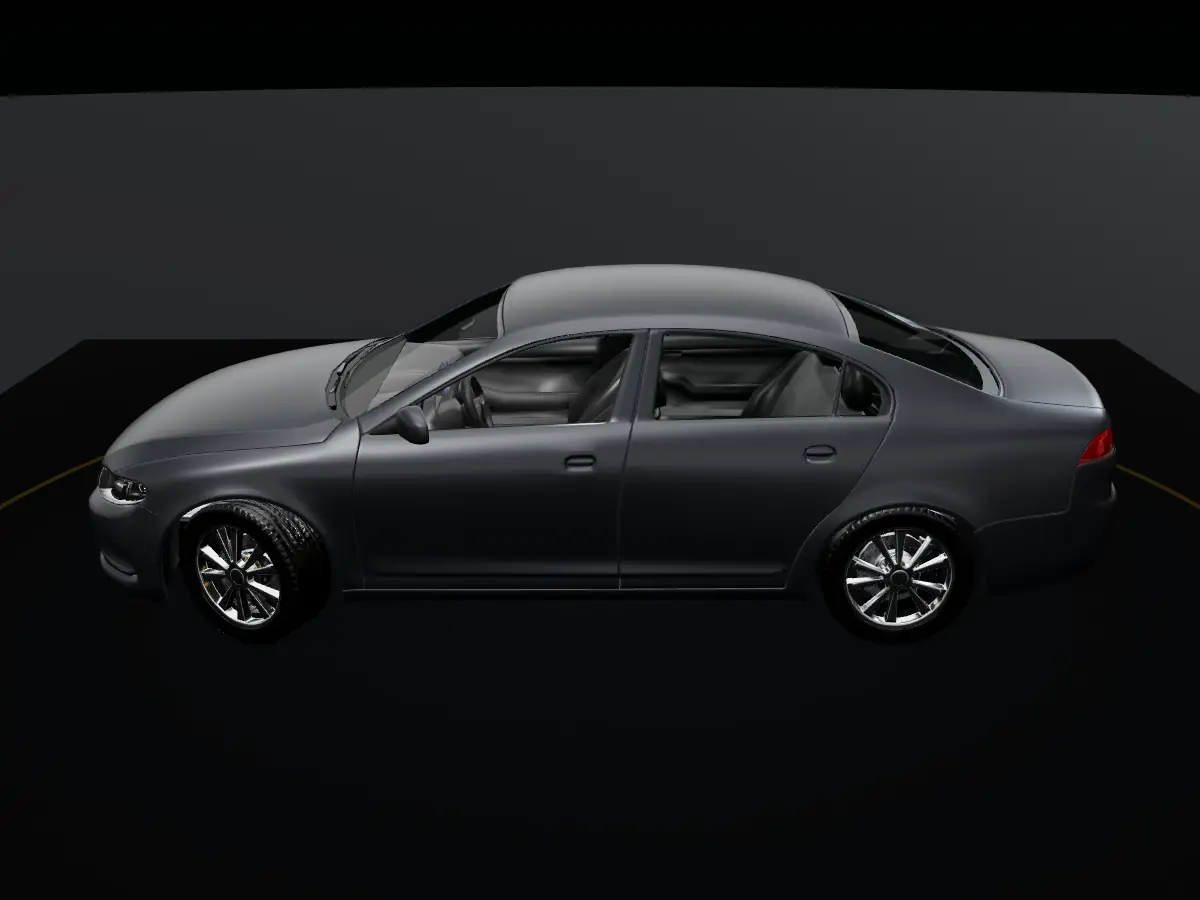
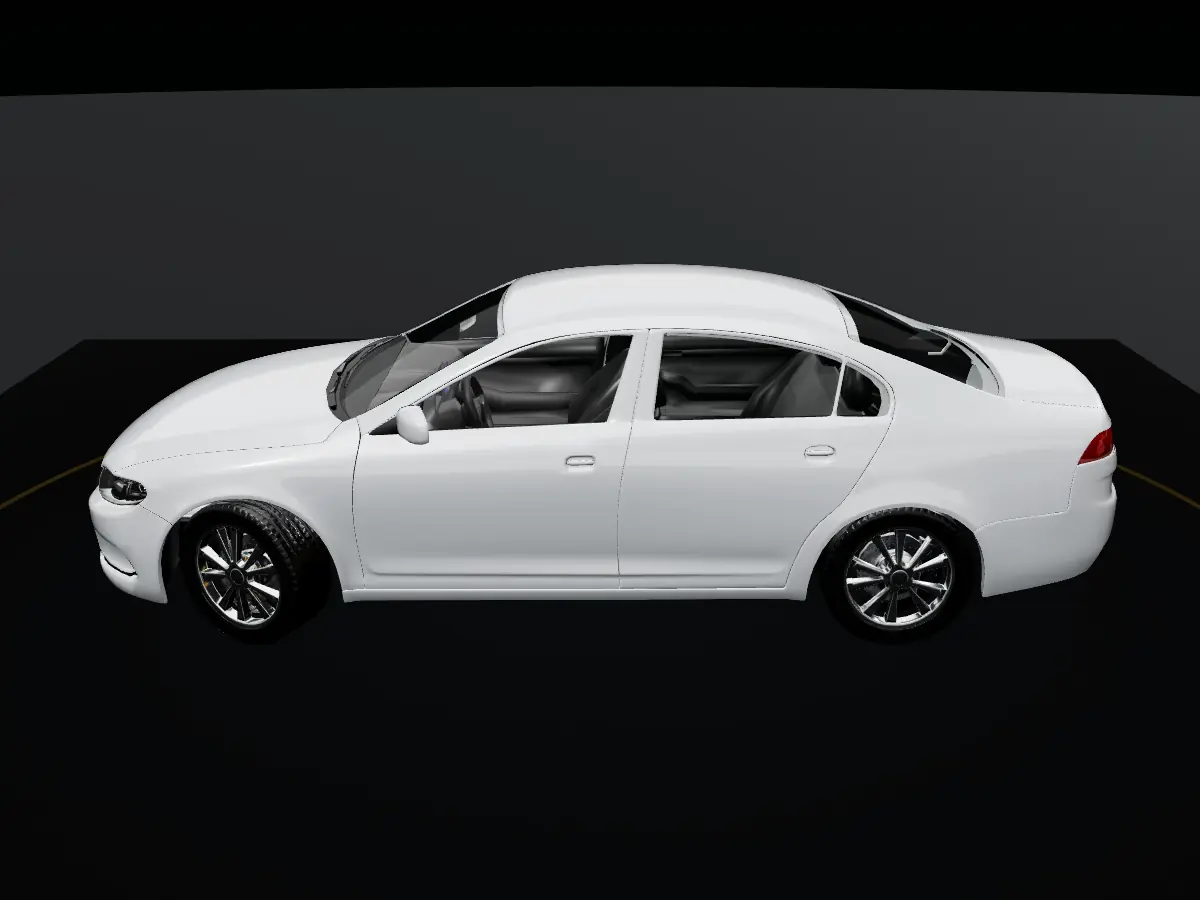
Simulador: vehículo blanco y un solo tono (lámina de seguridad 20 %)
Selector "Sin lámina / Con lámina de seguridad (20 %)", nuevo título y botón
"Quiero mi lámina de seguridad". Se regeneran el póster de carga y las
imágenes de la versión liviana. Se mantiene el crédito CC BY 4.0.

Changed region(s): [[0.0617, 0.28, 0.9558, 0.6844]]

diff --git a/src/components/simulator/SimulatorSection.tsx b/src/components/simulator/SimulatorSection.tsx
@@ -5,7 +5,7 @@ import { useCallback, useEffect, useRef, useState } from 'react';
 import { useReducedMotionPref } from '@/components/ui/useMediaQuery';
 import model from '@/data/model.json';
 import { business } from '@/data/business';
-import { TINT_LEVELS } from '@/data/options';
+import { SECURITY_FILM_TINT } from '@/data/options';
 import { useQuote } from '@/components/quote/QuoteContext';
 import { Reveal, SectionHeading } from '@/components/ui/Reveal';
 import { IconArrowRight, IconChevronLeft, IconChevronRight, IconEye, IconRotate, IconWhatsApp, IconX } from '@/components/ui/Icons';
@@ -124,8 +124,7 @@ export function SimulatorSection() {
       setModelUrl(url);
       setMode('3d');
     });
-    if (capture.layer === 'preview') setState((s) => ({ ...s, tint: '5' }));
-    else setState((s) => ({ ...s, tint: 'none' }));
+    setState((s) => ({ ...s, tint: 'none' }));
   }, [capture]);
 
   // Render solo mientras la sección está visible (no consume batería fuera de pantalla)
@@ -175,13 +174,13 @@ export function SimulatorSection() {
       <div className="container-x relative">
         <SectionHeading
           id="simulador-title"
-          eyebrow="Simulador de polarizado 3D"
+          eyebrow="Simulador 3D"
           title={
             <>
-              Mirá cómo te queda <span className="text-brand">antes de decidir</span>
+              Mirá cómo queda tu vehículo <span className="text-brand">con lámina de seguridad</span>
             </>
           }
-          intro="Girá el auto, elegí el tono de polarizado y mirá desde el asiento del conductor. También podés ver cómo queda un parabrisas cambiado."
+          intro="Girá el vehículo, compará sin lámina y con la lámina de seguridad Security Film (20 %) y mirá desde el asiento del conductor. También podés ver cómo queda un parabrisas cambiado."
         />
 
         <div className="grid gap-6 lg:grid-cols-[1.6fr_1fr]">
@@ -192,7 +191,7 @@ export function SimulatorSection() {
               tabIndex={mode === '3d' ? 0 : -1}
               role={mode === '3d' ? 'group' : undefined}
               aria-roledescription={mode === '3d' ? 'visor 3D' : undefined}
-              aria-label={mode === '3d' ? `Auto en 3D con polarizado ${t.label}. Usá las flechas del teclado para girarlo y + o - para acercar.` : undefined}
+              aria-label={mode === '3d' ? `Vehículo en 3D: ${state.tint === 'none' ? 'sin lámina' : `con lámina de seguridad ${t.label}`}. Usá las flechas del teclado para girarlo y + o - para acercar.` : undefined}
               onKeyDown={onStageKey}
               className="relative aspect-square overflow-hidden rounded-2xl border border-line bg-ink sm:aspect-[16/11]"
             >
@@ -245,10 +244,10 @@ export function SimulatorSection() {
                     setInteracted(true);
                   }}
                   className="absolute inset-0 flex items-end justify-center pb-6"
-                  aria-label="Activar el visor 3D para girar el auto con el dedo"
+                  aria-label="Activar el visor 3D para girar el vehículo con el dedo"
                 >
                   <span className="inline-flex min-h-12 items-center gap-2 rounded-full bg-ink/85 px-5 py-3 font-display text-lg font-bold uppercase tracking-wide text-snow ring-1 ring-brand/70 backdrop-blur">
-                    <IconRotate className="h-5 w-5 text-brand" /> Tocá para girar el auto
+                    <IconRotate className="h-5 w-5 text-brand" /> Tocá para girar el vehículo
                   </span>
                 </button>
               )}
@@ -312,19 +311,19 @@ export function SimulatorSection() {
           <Reveal delay={0.08} className="card flex flex-col gap-6 p-5 sm:p-6">
             <div>
               <h3 id="tono-label" className="font-display text-xl font-bold uppercase tracking-wide">
-                Tono de polarizado
+                Lámina de seguridad
               </h3>
-              <div role="radiogroup" aria-labelledby="tono-label" className="mt-3 flex flex-wrap gap-2">
-                {(['none', ...TINT_LEVELS.map((l) => l.value)] as TintChoice[]).map((v) => (
+              <div role="radiogroup" aria-labelledby="tono-label" className="mt-3 grid gap-2 min-[420px]:grid-cols-2 lg:grid-cols-1 xl:grid-cols-2">
+                {(['none', SECURITY_FILM_TINT.value] as TintChoice[]).map((v) => (
                   <button
                     key={v}
                     type="button"
                     role="radio"
                     aria-checked={state.tint === v}
-                    className="chip"
+                    className="chip justify-center text-center"
                     onClick={() => update({ tint: v })}
                   >
-                    {v === 'none' ? 'Sin polarizar' : `${v} %`}
+                    {v === 'none' ? 'Sin lámina' : `Con lámina de seguridad (${SECURITY_FILM_TINT.label})`}
                   </button>
                 ))}
               </div>
@@ -346,7 +345,7 @@ export function SimulatorSection() {
               )}
               {state.view === 'windshield' ? (
                 <button type="button" className="btn btn-ghost btn-sm" onClick={() => update({ view: 'exterior', windshield: 'antes' })}>
-                  <IconArrowRight className="h-5 w-5 rotate-180" /> Volver al auto
+                  <IconArrowRight className="h-5 w-5 rotate-180" /> Volver al vehículo
                 </button>
               ) : (
                 <button type="button" className="btn btn-ghost btn-sm" onClick={() => update({ view: 'windshield', windshield: 'antes' })} disabled={mode !== '3d' && mode !== 'fallback'}>
@@ -378,14 +377,13 @@ export function SimulatorSection() {
                 aria-haspopup="dialog"
                 onClick={() =>
                   openQuote({
-                    service: 'Polarizado',
-                    tint: state.tint === 'none' ? 'asesoramiento' : state.tint,
+                    service: 'Láminas de seguridad',
                     glassScope: 'todos',
                     source: 'simulador',
                   })
                 }
               >
-                <IconWhatsApp className="h-6 w-6" /> Quiero este polarizado
+                <IconWhatsApp className="h-6 w-6" /> Quiero mi lámina de seguridad
               </button>
             </div>
           </Reveal>

diff --git a/src/components/simulator/CarScene.tsx b/src/components/simulator/CarScene.tsx
@@ -11,7 +11,7 @@ import { CameraControls, CameraControlsImpl, ContactShadows, Environment, Lightf
 import * as THREE from 'three';
 import { DecalGeometry } from 'three/examples/jsm/geometries/DecalGeometry.js';
 import { drawCrack, drawSheen } from './crack';
-import { FILM_TINT_COLOR, glassOpacity, type SimState } from './tint';
+import { GLASS_COLOR, glassColor, glassOpacity, type SimState } from './tint';
 
 const { ACTION } = CameraControlsImpl;
 
@@ -23,7 +23,7 @@ export type SceneApi = {
 export type CaptureConfig = {
   /** a0…a5 = ángulos exteriores, 'interior', 'windshield' */
   shot: string;
-  layer: 'base' | 'mask-side' | 'mask-ws' | 'preview';
+  layer: 'base' | 'mask-side' | 'mask-ws';
 };
 
 type Props = {
@@ -83,16 +83,17 @@ function Car({ url, state, capture, onLoaded }: { url: string; state: SimState; 
       depthWrite: false,
       specularIntensity: 1,
     };
-    const side = new THREE.MeshPhysicalMaterial({ ...glassBase, color: FILM_TINT_COLOR.clear, opacity: glassOpacity('none') });
-    const windshield = new THREE.MeshPhysicalMaterial({ ...glassBase, color: FILM_TINT_COLOR.clear, opacity: glassOpacity('none') });
-    // Carrocería gris oscuro casi mate para que combine con el amarillo de la marca
+    const side = new THREE.MeshPhysicalMaterial({ ...glassBase, color: GLASS_COLOR.clear, opacity: glassOpacity('none') });
+    const windshield = new THREE.MeshPhysicalMaterial({ ...glassBase, color: GLASS_COLOR.clear, opacity: glassOpacity('none') });
+    // Carrocería blanca (pedido de la clienta): blanco perlado con laca, sin metalizado
+    // para que no se vea gris con el fondo oscuro del estudio.
     const paint = new THREE.MeshPhysicalMaterial({
-      color: '#33373d',
-      metalness: 0.5,
-      roughness: 0.42,
-      clearcoat: 0.45,
-      clearcoatRoughness: 0.3,
-      envMapIntensity: 1.25,
+      color: '#c9ced3',
+      metalness: 0.1,
+      roughness: 0.38,
+      clearcoat: 1,
+      clearcoatRoughness: 0.08,
+      envMapIntensity: 0.9,
     });
     let windshieldMesh: THREE.Mesh | null = null;
     scene.traverse((o) => {
@@ -137,7 +138,7 @@ function Car({ url, state, capture, onLoaded }: { url: string; state: SimState; 
   const invalidate = useThree((s) => s.invalidate);
   useEffect(() => {
     invalidate();
-  }, [state.tint, state.film, state.includeWindshield, invalidate]);
+  }, [state.tint, state.includeWindshield, invalidate]);
 
   // Transición suave del tono
   const targetColor = useMemo(() => new THREE.Color(), []);
@@ -159,9 +160,9 @@ function Car({ url, state, capture, onLoaded }: { url: string; state: SimState; 
         else moving = true;
       }
     };
-    const filmColor = state.tint === 'none' ? FILM_TINT_COLOR.clear : FILM_TINT_COLOR[state.film];
+    const filmColor = glassColor(state.tint);
     step(mats.side, sideOpacity, filmColor);
-    step(mats.windshield, wsOpacity, state.includeWindshield ? filmColor : FILM_TINT_COLOR.clear);
+    step(mats.windshield, wsOpacity, state.includeWindshield ? filmColor : GLASS_COLOR.clear);
     if (moving) s.invalidate();
   });
 
@@ -560,7 +561,7 @@ export default function CarScene({ modelUrl, state, active, interactive, isTouch
       {!isMask && <ambientLight intensity={0.5} />}
       {!isMask && <directionalLight position={[4, 7, 3]} intensity={1.3} />}
       {!isMask && <directionalLight position={[-5, 3, -4]} intensity={0.9} color="#cfd8e0" />}
-      {/* luz suave en la cabina: el interior se ve a través de los vidrios y el polarizado se nota */}
+      {/* luz suave en la cabina: el interior se ve a través de los vidrios y la lámina se nota */}
       {!isMask && <pointLight position={[0, 1.25, 0.1]} intensity={0.9} distance={2.6} decay={2} />}
       <Stage day={day} hidden={isMask} instant={!!capture} />
       <Rig

diff --git a/src/components/simulator/Fallback2D.tsx b/src/components/simulator/Fallback2D.tsx
@@ -2,15 +2,15 @@
 
 /**
  * Versión liviana del simulador (sin WebGL o equipos de baja potencia):
- * renders del auto en 6 ángulos + interior + parabrisas, generados con
- * `npm run render:fallback`. El polarizado se aplica como una capa de color
+ * renders del vehículo en 6 ángulos + interior + parabrisas, generados con
+ * `npm run render:fallback`. La lámina se aplica como una capa de color
  * recortada con una máscara de los vidrios.
  */
 import { useEffect, useMemo, useRef, useState } from 'react';
 import meta from '@/data/sim-meta.json';
 import { IconChevronLeft, IconChevronRight } from '@/components/ui/Icons';
 import { drawCrack } from './crack';
-import { FILM_TINT_COLOR, glassOpacity, type SimState } from './tint';
+import { glassColor, glassOpacity, type SimState } from './tint';
 
 const ANGLES = ['a0', 'a1', 'a2', 'a3', 'a4', 'a5'];
 const BASE_OPACITY = glassOpacity('none'); // el render base ya tiene vidrio claro
@@ -49,7 +49,7 @@ export function Fallback2D({ state, onChange }: { state: SimState; onChange: (p:
 
   const shot = state.view === 'interior' ? 'interior' : state.view === 'windshield' ? 'windshield' : ANGLES[angle];
   const sideTarget = glassOpacity(state.tint);
-  const color = state.tint === 'none' ? FILM_TINT_COLOR.clear : FILM_TINT_COLOR[state.film];
+  const color = glassColor(state.tint);
 
   useEffect(() => {
     if (state.view === 'windshield' && !crackUrl) setCrackUrl(drawCrack(512).toDataURL('image/png'));
@@ -87,7 +87,7 @@ export function Fallback2D({ state, onChange }: { state: SimState; onChange: (p:
       tabIndex={0}
       role="group"
       aria-roledescription="visor de imágenes"
-      aria-label="Auto con polarizado. Usá las flechas izquierda y derecha para girarlo."
+      aria-label="Vehículo con lámina de seguridad. Usá las flechas izquierda y derecha para girarlo."
       onKeyDown={(e) => {
         if (e.key === 'ArrowLeft') go(-1);
         if (e.key === 'ArrowRight') go(1);
@@ -134,10 +134,10 @@ export function Fallback2D({ state, onChange }: { state: SimState; onChange: (p:
 
       {state.view === 'exterior' && (
         <div className="absolute right-3 bottom-3 flex gap-2">
-          <button type="button" onClick={() => go(-1)} className="h-11 w-11 rounded-full bg-ink/85 ring-1 ring-line hover:ring-brand" aria-label="Ver el auto desde otro ángulo (anterior)">
+          <button type="button" onClick={() => go(-1)} className="h-11 w-11 rounded-full bg-ink/85 ring-1 ring-line hover:ring-brand" aria-label="Ver el vehículo desde otro ángulo (anterior)">
             <IconChevronLeft className="mx-auto" />
           </button>
-          <button type="button" onClick={() => go(1)} className="h-11 w-11 rounded-full bg-ink/85 ring-1 ring-line hover:ring-brand" aria-label="Ver el auto desde otro ángulo (siguiente)">
+          <button type="button" onClick={() => go(1)} className="h-11 w-11 rounded-full bg-ink/85 ring-1 ring-line hover:ring-brand" aria-label="Ver el vehículo desde otro ángulo (siguiente)">
             <IconChevronRight className="mx-auto" />
           </button>
         </div>

diff --git a/src/components/simulator/tint.ts b/src/components/simulator/tint.ts
@@ -1,46 +1,45 @@
-import { FILM_TYPES, TINT_LEVELS, type FilmValue, type TintValue } from '@/data/options';
+import { SECURITY_FILM_TINT, type TintValue } from '@/data/options';
 
+/** 'none' = sin lámina · '20' = con lámina de seguridad Security Film (20 %). */
 export type TintChoice = TintValue | 'none';
 export type SimView = 'exterior' | 'interior' | 'windshield';
 
 export type SimState = {
   tint: TintChoice;
-  film: FilmValue;
+  /** La lámina se aplica a todos los vidrios, incluido el parabrisas. */
   includeWindshield: boolean;
   view: SimView;
   windshield: 'antes' | 'despues';
 };
 
 export const initialSimState: SimState = {
-  tint: '35',
-  film: 'window-films',
-  includeWindshield: true, // el tono se aplica a todos los vidrios, incluido el parabrisas
+  tint: SECURITY_FILM_TINT.value,
+  includeWindshield: true,
   view: 'exterior',
   windshield: 'antes',
 };
 
-/** Opacidad visual del vidrio para cada tono (aproximación: VLT bajo = vidrio más opaco). */
+/** Opacidad visual del vidrio (aproximación: menos luz transmitida = vidrio más opaco). */
 export function glassOpacity(tint: TintChoice): number {
   if (tint === 'none') return 0.16;
-  const level = TINT_LEVELS.find((t) => t.value === tint);
-  const vlt = level?.vlt ?? 0.5;
-  return Math.min(0.96, 0.16 + (1 - vlt) * 0.84);
+  return Math.min(0.96, 0.16 + (1 - SECURITY_FILM_TINT.vlt) * 0.84);
 }
 
-/** Matiz sutil por tipo de lámina (representación aproximada). */
-export const FILM_TINT_COLOR: Record<FilmValue | 'clear', string> = {
-  clear: '#13201f', // vidrio sin lámina (levemente verdoso)
-  'window-films': '#050607',
-  'nano-ceramico': '#03070b',
-  'nano-carbon-hp': '#0a0806',
-};
+/** Color del vidrio: original (levemente verdoso) o con lámina. */
+export const GLASS_COLOR = {
+  clear: '#13201f',
+  film: '#050607',
+} as const;
+
+export function glassColor(tint: TintChoice) {
+  return tint === 'none' ? GLASS_COLOR.clear : GLASS_COLOR.film;
+}
 
 export function tintLabel(tint: TintChoice) {
-  if (tint === 'none') return { label: 'Sin polarizar', short: 'Vidrio original', description: 'Así se ve tu auto sin lámina.' };
-  const l = TINT_LEVELS.find((t) => t.value === tint)!;
-  return { label: l.label, short: l.short, description: l.description };
-}
-
-export function filmLabel(film: FilmValue) {
-  return FILM_TYPES.find((f) => f.value === film)!;
+  if (tint === 'none') return { label: 'Sin lámina', short: 'Vidrio original', description: 'Así se ve tu vehículo sin lámina.' };
+  return {
+    label: SECURITY_FILM_TINT.label,
+    short: 'Lámina de seguridad',
+    description: 'Security Film: privacidad y protección. Mantiene el vidrio unido ante un impacto y dificulta el ingreso al vehículo.',
+  };
 }
